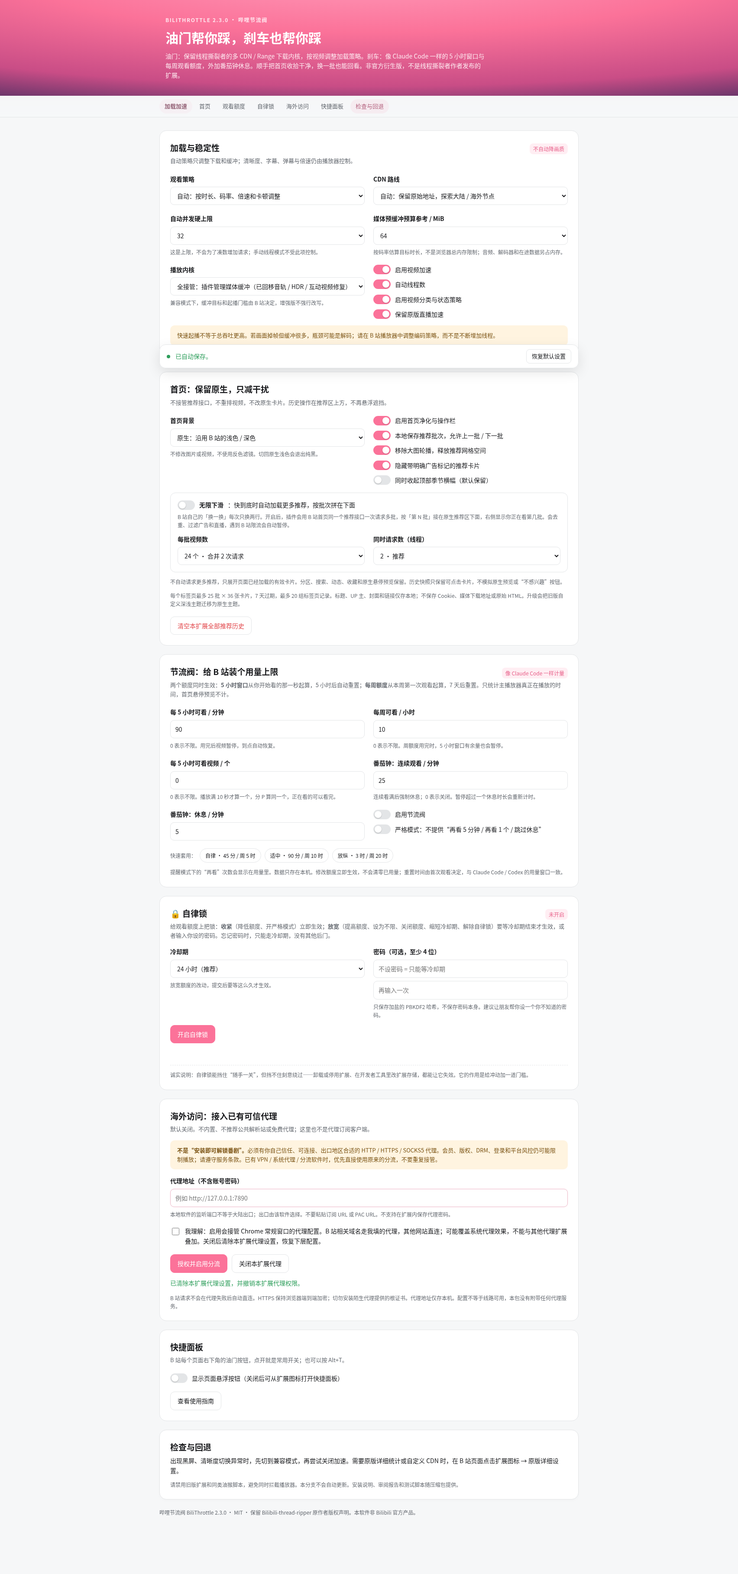
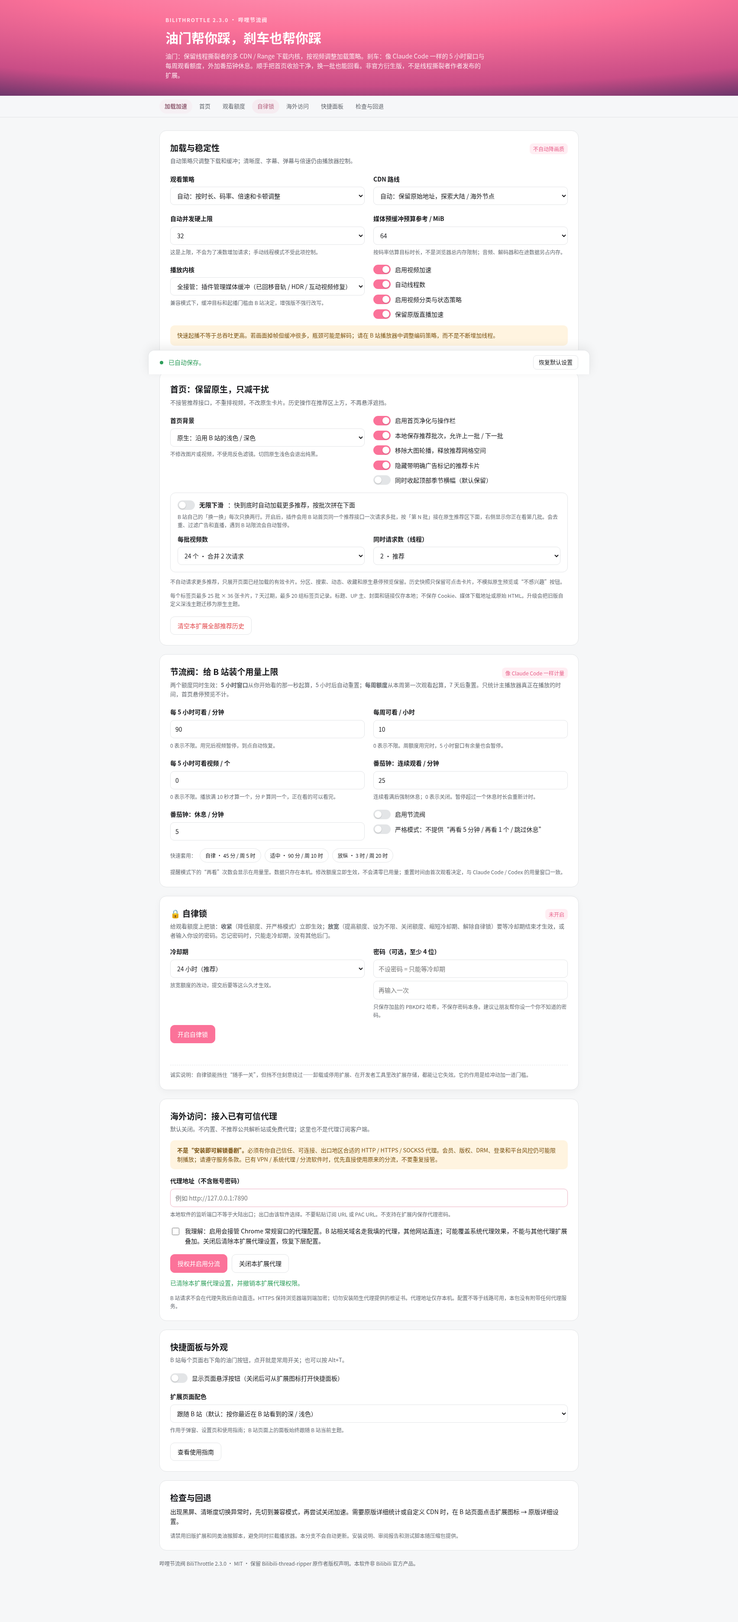
Extension pages follow B 站's theme; options save bar fixed, nav by the 35% line
New setting 扩展页面配色: 跟随 B 站 (default) / 跟随系统 / 浅色 / 深色. Content scripts record the
detected B 站 theme in storage.local (biliTheme); popup/options/welcome apply data-theme live,
cached to avoid a light flash; dark variants tuned. Save bar is position:fixed bottom:0 with
matching body padding. Section nav: top closest above 35% of the viewport, or a section owning
>60% of the screen; click pins the target.

diff --git a/extension/src/ui-kit.js b/extension/src/ui-kit.js
@@ -32,8 +32,8 @@
   const base = `--btr-ease:${EASE};--btr-ease-in:${EASE_IN};--btr-fast:${MOTION.fast}ms;--btr-mid:${MOTION.mid}ms;--btr-slow:${MOTION.slow}ms;--btr-font:${FONT}`;
   /** Token CSS for a shadow root: light on `sel`, dark on `sel.dark`. */
   const scoped = (sel = '.root') => `${sel}{${base};${decl(LIGHT)}}${sel}.dark{${decl(DARK)}}`;
-  /** Token CSS for an extension page: follows the OS theme. */
-  const page = () => `:root{${base};${decl(LIGHT)};color-scheme:light}@media (prefers-color-scheme:dark){:root{${decl(DARK)};color-scheme:dark}}`;
+  /** Token CSS for an extension page: <html data-theme="dark|light"> decides; without it, the OS theme. */
+  const page = () => `:root{${base};${decl(LIGHT)};color-scheme:light}:root[data-theme=dark]{${decl(DARK)};color-scheme:dark}@media (prefers-color-scheme:dark){:root:not([data-theme]){${decl(DARK)};color-scheme:dark}}`;
 
   const reduced = typeof matchMedia === 'function' ? matchMedia('(prefers-reduced-motion: reduce)') : {matches: false};
   const darkOS = typeof matchMedia === 'function' ? matchMedia('(prefers-color-scheme: dark)') : {matches: false, addEventListener() {}};
@@ -118,7 +118,17 @@
     const d = isDark();
     if (d === last) return;
     last = d;
+    record(d);
     for (const f of listeners) { try { f(d); } catch (_) {} }
+  }
+  // Content scripts remember B 站's last theme so the popup / options / welcome pages can match it.
+  let recorded = null;
+  function record(d) {
+    try {
+      if (!/^https?:$/.test(location.protocol) || recorded === d || !root.chrome?.storage?.local) return;
+      recorded = d;
+      chrome.storage.local.get('biliTheme').then(v => { if (v.biliTheme?.dark !== d) return chrome.storage.local.set({biliTheme: {dark: d, at: Date.now()}}); }).catch(() => {});
+    } catch (_) {}
   }
   // Check now, and again once a swapped stylesheet has had time to load / a CSS fade to settle.
   function schedule() {
@@ -148,17 +158,38 @@
   /** Subscribe to Bilibili theme changes. Calls back immediately with the current value. */
   function onTheme(fn) {
     listeners.add(fn); startObserver();
-    if (last == null) last = isDark();
+    if (last == null) { last = isDark(); record(last); }
     fn(last);
     return () => listeners.delete(fn);
   }
 
   const api = Object.freeze({LIGHT, DARK, MOTION, EASE, EASE_IN, FONT, scoped, page, reduced, animate, fadeOut, flash, isDark, onTheme});
   root.__BTR_UI__ = api;
-  // Extension pages get the tokens as :root custom properties before first paint.
+  // Extension pages get the tokens as :root custom properties before first paint, and a theme:
+  // 跟随 B 站 (default: the last theme the content scripts saw on B 站, else the OS) / 跟随系统 / 浅色 / 深色.
   try {
     if (typeof document !== 'undefined' && typeof location !== 'undefined' && !/^https?:$/.test(location.protocol) && document.head) {
       const st = document.createElement('style'); st.id = 'btr-tokens'; st.textContent = page(); document.head.prepend(st);
+      const html = document.documentElement, CACHE = 'btr-ui-theme';
+      const set = mode => {
+        if (mode === 'dark' || mode === 'light') html.dataset.theme = mode; else delete html.dataset.theme;
+        try { localStorage.setItem(CACHE, mode || ''); } catch (_) {}
+      };
+      // Synchronous first guess from the last visit avoids a light flash on a dark setup.
+      try { const c = localStorage.getItem(CACHE); if (c === 'dark' || c === 'light') html.dataset.theme = c; } catch (_) {}
+      const store = root.chrome?.storage;
+      const resolve = async () => {
+        if (!store) return;
+        try {
+          const [{uiTheme = 'bili'}, {biliTheme}] = await Promise.all([store.sync.get({uiTheme: 'bili'}), store.local.get('biliTheme')]);
+          if (uiTheme === 'dark' || uiTheme === 'light') set(uiTheme);
+          else if (uiTheme === 'bili' && typeof biliTheme?.dark === 'boolean') set(biliTheme.dark ? 'dark' : 'light');
+          else set(darkOS.matches ? 'dark' : 'light');
+        } catch (_) {}
+      };
+      resolve();
+      store?.onChanged?.addListener((c, area) => { if ((area === 'sync' && c.uiTheme) || (area === 'local' && c.biliTheme)) resolve(); });
+      darkOS.addEventListener?.('change', resolve);
     }
   } catch (_) {}
   if (typeof module === 'object') module.exports = api;

diff --git a/extension/ui/options.js b/extension/ui/options.js
@@ -1,7 +1,7 @@
 'use strict';
 const $=id=>document.getElementById(id);
 const ui=globalThis.__BTR_UI__,focusCore=globalThis.__BTR_FOCUS_CORE__,homeCore=globalThis.__BTR_HOME_CORE__,lockCore=globalThis.__BTR_LOCK_CORE__;
-const defaults={enabled:true,liveEnabled:true,autoConcurrency:true,smartPolicy:true,strategy:'auto',mode:'auto',maxAutoThreads:32,memoryBudgetMB:64,takeover:'full',...homeCore.defaults,...focusCore.defaults,quickFab:true};
+const defaults={enabled:true,liveEnabled:true,autoConcurrency:true,smartPolicy:true,strategy:'auto',mode:'auto',maxAutoThreads:32,memoryBudgetMB:64,takeover:'full',...homeCore.defaults,...focusCore.defaults,quickFab:true,uiTheme:'bili'};
 const FOCUS=new Set(Object.keys(focusCore.defaults));
 const RELOAD=new Set(['takeover','enabled','liveEnabled']);
 
@@ -220,18 +220,36 @@ async function focusUsage(){try{const r=await chrome.runtime.sendMessage({type:'
 /* ---------- sticky section nav: the section under a reading line just below the nav is current ---------- */
 const links=[...document.querySelectorAll('.toc a')],targets=links.map(a=>document.querySelector(a.getAttribute('href'))).filter(Boolean);
 let navFrame=0,navCurrent=null;
+let navPin=null;
 function navUpdate(){
  navFrame=0;
- const line=($('toc')?.getBoundingClientRect().bottom||0)+Math.min(160,innerHeight*.25);
- let cur=targets[0];
- for(const t of targets){if(t.getBoundingClientRect().top<=line)cur=t;else break;}
+ if(navPin&&performance.now()<navPin.until){setNav(navPin.target);return;}navPin=null;
+ // The section whose top is closest above the 35% line of the viewport (below the sticky nav)…
+ const top=$('toc')?.getBoundingClientRect().bottom||0,bottom=innerHeight-($('savebar')?.offsetHeight||0);
+ const line=Math.max(top+8,innerHeight*.35);
+ let cur=targets[0],best=null,bestArea=0;
+ for(const t of targets){
+  const r=t.getBoundingClientRect();
+  if(r.top<=line)cur=t;
+  const area=Math.max(0,Math.min(r.bottom,bottom)-Math.max(r.top,top));
+  if(area>bestArea){bestArea=area;best=t;}
+ }
+ // …unless another section clearly owns the screen (more than 60% of the visible area).
+ if(best&&best!==cur&&bestArea>.6*(bottom-top))cur=best;
  if(innerHeight+scrollY>=document.documentElement.scrollHeight-4)cur=targets.at(-1); // Bottom of the page: the last section, even if short.
+ setNav(cur);
+}
+function setNav(cur){
  if(cur===navCurrent)return;navCurrent=cur;
  for(const a of links){const on=a.getAttribute('href')==='#'+cur?.id;a.setAttribute('aria-current',String(on));if(on)a.scrollIntoView({block:'nearest',inline:'nearest'});}
 }
 addEventListener('scroll',()=>{if(!navFrame)navFrame=requestAnimationFrame(navUpdate);},{passive:true});
 addEventListener('resize',()=>{if(!navFrame)navFrame=requestAnimationFrame(navUpdate);},{passive:true});
-for(const a of links)a.addEventListener('click',e=>{const t=document.querySelector(a.getAttribute('href'));if(!t)return;e.preventDefault();t.scrollIntoView({behavior:ui.reduced.matches?'auto':'smooth',block:'start'});history.replaceState(null,'',a.getAttribute('href'));});
+addEventListener('scrollend',()=>{navPin=null;});
+['wheel','touchstart','keydown'].forEach(t=>addEventListener(t,()=>{navPin=null;},{passive:true}));
+// The save bar is fixed to the bottom edge; keep the page end clear of it.
+const bar=$('savebar');if(bar&&typeof ResizeObserver==='function')new ResizeObserver(()=>{document.body.style.paddingBottom=bar.offsetHeight+'px';}).observe(bar);
+for(const a of links)a.addEventListener('click',e=>{const t=document.querySelector(a.getAttribute('href'));if(!t)return;e.preventDefault();navPin={target:t,until:performance.now()+1000};setNav(t);t.scrollIntoView({behavior:ui.reduced.matches?'auto':'smooth',block:'start'});history.replaceState(null,'',a.getAttribute('href'));});
 navUpdate();
 
 load().catch(e=>status(e.message,'error'));refreshLock();focusUsage();setInterval(focusUsage,5000);setInterval(()=>{if(lock.locked)refreshLock();},30000);

diff --git a/extension/ui/options.html b/extension/ui/options.html
@@ -45,6 +45,6 @@
 <label class="checkbox-line" style="margin-top:18px"><input id="proxyConsent" type="checkbox"><span>我理解：启用会接管 Chrome 常规窗口的代理配置。B 站相关域名走我填的代理，其他网站直连；可能覆盖系统代理效果，不能与其他代理扩展叠加。关闭后清除本扩展代理设置，恢复下层配置。</span></label>
 <div class="actions"><button id="enableProxy" class="primary" type="button">授权并启用分流</button><button id="disableProxy" type="button">关闭本扩展代理</button></div><p id="proxyStatus" class="status" role="status" aria-live="polite"></p>
 <p class="fine">B 站请求不会在代理失败后自动直连。HTTPS 保持浏览器端到端加密；切勿安装陌生代理提供的根证书。代理地址仅存本机。配置不等于线路可用，本包没有附带任何代理服务。</p></section>
-<section class="card" id="quick"><h2>快捷面板</h2><p class="muted">B 站每个页面右下角的油门按钮，点开就是常用开关；也可以按 Alt+T。</p><div class="stack mt"><label class="row"><span class="switch"><input type="checkbox" role="switch" id="quickFab" form="settings"><span></span></span>显示页面悬浮按钮（关闭后可从扩展图标打开快捷面板）</label></div><div class="actions"><a class="button-link" href="welcome.html" target="_blank">查看使用指南</a></div></section>
+<section class="card" id="quick"><h2>快捷面板与外观</h2><p class="muted">B 站每个页面右下角的油门按钮，点开就是常用开关；也可以按 Alt+T。</p><div class="stack mt"><label class="row"><span class="switch"><input type="checkbox" role="switch" id="quickFab" form="settings"><span></span></span>显示页面悬浮按钮（关闭后可从扩展图标打开快捷面板）</label></div><div class="field mt"><label for="uiTheme">扩展页面配色</label><select id="uiTheme" form="settings"><option value="bili">跟随 B 站（默认：按你最近在 B 站看到的深 / 浅色）</option><option value="system">跟随系统</option><option value="light">浅色</option><option value="dark">深色</option></select><span class="hint">作用于弹窗、设置页和使用指南；B 站页面上的面板始终跟随 B 站当前主题。</span></div><div class="actions"><a class="button-link" href="welcome.html" target="_blank">查看使用指南</a></div></section>
 <section class="card" id="help"><h2>检查与回退</h2><p>出现黑屏、清晰度切换异常时，先切到兼容模式，再尝试关闭加速。需要原版详细统计或自定义 CDN 时，在 B 站页面点击扩展图标 → 原版详细设置。</p><p class="fine">请禁用旧版扩展和同类油猴脚本，避免同时拦截播放器。本分支不会自动更新。安装说明、审阅报告和测试脚本随压缩包提供。</p></section>
 <p class="fine">哔哩节流阀 BiliThrottle 2.3.0 · MIT · 保留 Bilibili-thread-ripper 原作者版权声明。本软件非 Bilibili 官方产品。</p><div class="savebar" id="savebar"><span class="dot" aria-hidden="true"></span><p id="saved" class="status" role="status" aria-live="polite">改动会自动保存。</p><button type="button" id="restore" class="small">恢复默认设置</button></div></main><script src="../src/home-core.js"></script><script src="../src/focus-core.js"></script><script src="../src/proxy-core.js"></script><script src="../src/lock-core.js"></script><script src="options.js"></script></body></html>

diff --git a/extension/ui/common.css b/extension/ui/common.css
@@ -119,7 +119,7 @@ body.popup{width:380px;padding:20px;background:var(--btr-bg)}
 @keyframes btr-fade-in{from{opacity:0;transform:translateY(-2px)}to{opacity:1;transform:none}}
 @media(max-width:640px){.grid{grid-template-columns:1fr}.hero{padding:28px 24px}.wrap{padding:20px 14px}.card{padding:18px}}
 @media (prefers-reduced-motion:reduce){*,*::before,*::after{transition:none!important;animation:none!important}}
-@media (prefers-color-scheme:dark){.hero{background:radial-gradient(120% 160% at 50% -30%,#b4527a 0%,#7e3a63 45%,#2b2140 100%)}.status.dirty{color:#f0b35a}}
+:root[data-theme=dark] .hero{background:radial-gradient(120% 160% at 50% -30%,#a24a72 0%,#6e335a 45%,#221c33 100%)}:root[data-theme=dark] .status.dirty{color:#f0b35a}:root[data-theme=dark] .card:hover{box-shadow:0 6px 22px rgba(0,0,0,.35)}:root[data-theme=dark] .modal-back{background:rgba(0,0,0,.55)}:root[data-theme=dark] .modal{box-shadow:0 24px 60px rgba(0,0,0,.6)}:root[data-theme=dark] .savebar{box-shadow:0 -8px 28px rgba(0,0,0,.45)}@media (prefers-color-scheme:dark){:root:not([data-theme]) .hero{background:radial-gradient(120% 160% at 50% -30%,#a24a72 0%,#6e335a 45%,#221c33 100%)}:root:not([data-theme]) .status.dirty{color:#f0b35a}:root:not([data-theme]) .card:hover{box-shadow:0 6px 22px rgba(0,0,0,.35)}:root:not([data-theme]) .modal-back{background:rgba(0,0,0,.55)}:root:not([data-theme]) .modal{box-shadow:0 24px 60px rgba(0,0,0,.6)}:root:not([data-theme]) .savebar{box-shadow:0 -8px 28px rgba(0,0,0,.45)}}
 
 /* ---------- inline field errors ---------- */
 .field-error{display:flex;align-items:center;gap:6px;margin:0;font-size:12.5px;line-height:1.5;color:var(--btr-danger)}
@@ -141,7 +141,8 @@ button.danger-fill{background:var(--btr-danger);border-color:var(--btr-danger);c
 button.danger-fill:hover{background:color-mix(in srgb,var(--btr-danger) 88%,#000);border-color:transparent}
 
 /* ---------- save bar: pinned to the bottom of the window for the whole page ---------- */
-.wrap>.savebar{position:sticky;bottom:14px;margin:8px 0 0;backdrop-filter:blur(12px) saturate(1.2);-webkit-backdrop-filter:blur(12px) saturate(1.2);background:color-mix(in srgb,var(--btr-bg) 88%,transparent);box-shadow:0 10px 30px rgba(0,0,0,.10),0 1px 0 rgba(255,255,255,.04) inset}
+.wrap>.savebar{position:fixed;left:0;right:0;bottom:0;z-index:20;width:auto;max-width:1020px;margin:0 auto;border-radius:14px 14px 0 0;border-bottom:0;padding:11px 26px calc(11px + env(safe-area-inset-bottom));backdrop-filter:blur(12px) saturate(1.2);-webkit-backdrop-filter:blur(12px) saturate(1.2);background:color-mix(in srgb,var(--btr-bg) 90%,transparent);box-shadow:0 -6px 24px rgba(0,0,0,.08)}
+body:has(.wrap>.savebar){padding-bottom:48px}
 
 /* ---------- small refinements ---------- */
 .card{transition:border-color var(--btr-mid) ease,box-shadow var(--btr-mid) ease}

diff --git a/extension/ui/welcome.css b/extension/ui/welcome.css
@@ -18,7 +18,7 @@ main.w-wrap{padding-top:18px;padding-bottom:40px}
 main section{margin-top:44px}
 main h2{font-size:24px;margin-bottom:16px}
 .w-steps{list-style:none;counter-reset:s;display:grid;grid-template-columns:repeat(3,1fr);gap:14px;padding:0;margin:0}
-.w-steps li{counter-increment:s;position:relative;padding:20px 20px 18px 62px;background:#fff;border-radius:16px;border:1px solid var(--btr-line)}
+.w-steps li{counter-increment:s;position:relative;padding:20px 20px 18px 62px;background:var(--btr-bg);border-radius:16px;border:1px solid var(--btr-line)}
 .w-steps li::before{content:counter(s);position:absolute;left:18px;top:18px;width:30px;height:30px;border-radius:50%;display:grid;place-items:center;background:var(--btr-brand);color:#fff;font-weight:700}
 .w-steps b{display:block;margin-bottom:4px}
 .w-steps span{color:var(--btr-text2);font-size:13px}
@@ -58,5 +58,5 @@ kbd{padding:1px 6px;border-radius:5px;border:1px solid var(--btr-line);backgroun
 .w-footer{padding:20px 28px 40px;color:var(--btr-text2);font-size:12px;text-align:center}
 @keyframes w-float{50%{transform:translateY(-6px)}}
 @media (max-width:760px){.w-steps,.w-setup,.w-features,.w-more{grid-template-columns:1fr}.w-hero h1{font-size:32px}.w-presets{grid-template-columns:1fr 1fr}}
-@media (prefers-color-scheme:dark){.w-hero{background:radial-gradient(120% 140% at 50% -20%,#b4527a 0%,#8a3d68 40%,#4a2c5c 75%,#1d1a2c 100%)}}
+:root[data-theme=dark] .w-hero{background:radial-gradient(120% 140% at 50% -20%,#a24a72 0%,#7a3660 40%,#3e2752 75%,#17151f 100%)}:root[data-theme=dark] .w-btn.primary{background:#fff;color:#c94d86}@media (prefers-color-scheme:dark){:root:not([data-theme]) .w-hero{background:radial-gradient(120% 140% at 50% -20%,#a24a72 0%,#7a3660 40%,#3e2752 75%,#17151f 100%)}:root:not([data-theme]) .w-btn.primary{background:#fff;color:#c94d86}}
 @media (prefers-reduced-motion:reduce){.w-icon{animation:none}}

diff --git a/extension/tests/browser-dom.py b/extension/tests/browser-dom.py
@@ -138,7 +138,8 @@ with sync_playwright() as p:
  option=ctx.new_page();option.on('pageerror',lambda e:errors.append(str(e)));option.on('dialog',lambda d:d.accept())
  markup=(ROOT/'ui/options.html').read_text();markup=re.sub(r'<script[^>]*>.*?</script>','',markup,flags=re.S);markup=re.sub(r'<link[^>]*>','',markup)
  option.set_content(markup);option.add_style_tag(content=(ROOT/'ui/common.css').read_text())
- for f in ['tests/browser-shim.js','src/ui-kit.js','src/home-core.js','src/focus-core.js','src/proxy-core.js','src/lock-core.js']:script(option,f)
+ script(option,'tests/browser-shim.js');option.evaluate("window.chrome=window.chromeMock;0")  # extension page: ui-kit reads chrome.storage for the theme
+ for f in ['src/ui-kit.js','src/home-core.js','src/focus-core.js','src/proxy-core.js','src/lock-core.js']:script(option,f)
  # The service worker owns watch-limit writes (self-discipline lock); mock it as "no lock".
  option.evaluate("chromeMock.runtime.sendMessage=async m=>{if(m.type==='lock-state')return {locked:false};if(m.type==='focus-set'){await chromeMock.storage.sync.set(m.changes);return {applied:m.changes,deferred:{}};}return {};};0")
  option.evaluate("code=>new Function('chrome',code)(window.chromeMock)",(ROOT/'ui/options.js').read_text())
@@ -150,8 +151,22 @@ with sync_playwright() as p:
  option.locator('#focusEnabled').check(force=True);option.locator('#focusWindowMinutes').fill('45');option.locator('#focusWindowMinutes').press('Tab');option.locator('#focusWeeklyHours').fill('6');option.locator('#focusWeeklyHours').press('Tab')
  option.wait_for_function('fixtureStorage.all.sync.focusWindowMinutes===45&&fixtureStorage.all.sync.focusWeeklyHours===6',timeout=3000);assert option.evaluate('fixtureStorage.all.sync.focusEnabled===true')
  ok('options save 5-hour window and weekly limits as numbers (on change, via the service worker)')
- assert option.evaluate("getComputedStyle(document.querySelector('.savebar')).position")=='sticky'
- ok('save bar and section navigation are sticky')
+ assert option.evaluate("getComputedStyle(document.querySelector('.savebar')).position")=='fixed'
+ assert option.evaluate("getComputedStyle(document.querySelector('.toc')).position")=='sticky'
+ ok('save bar is fixed to the window bottom; section navigation is sticky')
+ TH="document.documentElement.dataset.theme||''";TOK="getComputedStyle(document.documentElement).getPropertyValue('--btr-bg').trim()"
+ assert option.evaluate("document.querySelector('#uiTheme').value")=='bili' and option.evaluate(TH)=='light'
+ option.evaluate("chromeMock.storage.local.set({biliTheme:{dark:true,at:Date.now()}})");option.wait_for_function(f"({TH})==='dark'",timeout=2000)
+ assert option.evaluate(TOK)=='#1f2026',option.evaluate(TOK)
+ option.evaluate("chromeMock.storage.local.set({biliTheme:{dark:false,at:Date.now()}})");option.wait_for_function(f"({TH})==='light'",timeout=2000)
+ option.select_option('#uiTheme','dark');option.wait_for_function(f"fixtureStorage.all.sync.uiTheme==='dark'&&({TH})==='dark'",timeout=3000)
+ option.emulate_media(color_scheme='dark');option.select_option('#uiTheme','system');option.wait_for_function(f"({TH})==='dark'",timeout=3000)
+ option.emulate_media(color_scheme='light');option.wait_for_function(f"({TH})==='light'",timeout=3000)
+ option.select_option('#uiTheme','light');option.evaluate("chromeMock.storage.local.set({biliTheme:{dark:true,at:Date.now()}})");option.wait_for_timeout(300);assert option.evaluate(TH)=='light'
+ option.select_option('#uiTheme','bili');option.wait_for_function(f"({TH})==='dark'",timeout=3000)
+ option.wait_for_timeout(500);option.screenshot(path=str(ROOT/'docs/options-dark-preview.png'))
+ option.evaluate("chromeMock.storage.local.set({biliTheme:{dark:false,at:Date.now()}})");option.wait_for_function(f"({TH})==='light'",timeout=2000)
+ ok('extension page theme: 跟随 B 站 (default, live from the recorded B 站 theme) / 跟随系统 / 浅色 / 深色, switching live')
  assert option.evaluate('permissionRequests')==0;option.locator('#enableProxy').click();assert '勾选' in option.locator('#proxyStatus').inner_text()
  option.locator('#proxyConsent').check();option.locator('#proxyUrl').fill('https://user:pass@example.com/');option.locator('#enableProxy').click();assert '账号密码' in option.locator('#proxyStatus').inner_text();assert option.evaluate('permissionRequests')==0
  ok('proxy stays opt-in; consent and credential rejection precede mock permission requests')
@@ -170,15 +185,39 @@ with sync_playwright() as p:
  ok('controls outside the form (快捷面板) auto-save too')
  option.set_viewport_size({'width':1100,'height':700})
  option.evaluate("document.querySelector('#proxy').scrollIntoView({block:'start'})");option.wait_for_timeout(300)
- bar=option.evaluate("(()=>{const r=document.querySelector('#savebar').getBoundingClientRect();return [r.bottom,innerHeight]})()")
- assert abs(bar[1]-14-bar[0])<2,bar
- assert option.evaluate("document.querySelector('.toc a[aria-current=true]').getAttribute('href')")=='#proxy'
- option.evaluate("document.querySelector('#lock').scrollIntoView({block:'start'})");option.wait_for_timeout(300)
- assert option.evaluate("document.querySelector('.toc a[aria-current=true]').getAttribute('href')")=='#lock'
+ BAR="(()=>{const r=document.querySelector('#savebar').getBoundingClientRect();return [r.bottom,innerHeight,r.top]})()"
+ bar=option.evaluate(BAR);assert abs(bar[1]-bar[0])<1,bar
+ CUR="document.querySelector('.toc a[aria-current=true]').getAttribute('href')"
+ assert option.evaluate(CUR)=='#proxy'
  option.evaluate("scrollTo(0,document.documentElement.scrollHeight)");option.wait_for_timeout(300)
- assert option.evaluate("document.querySelector('.toc a[aria-current=true]').getAttribute('href')")=='#help'
+ bar=option.evaluate(BAR);assert abs(bar[1]-bar[0])<1,bar
+ last=option.evaluate("(()=>{const m=document.querySelector('main.wrap');const kids=[...m.children].filter(n=>n.id!=='savebar');return Math.max(...kids.map(n=>n.getBoundingClientRect().bottom))})()")
+ assert last<=bar[2]+1,(last,bar)  # page end (footer) clears the fixed bar
+ assert option.evaluate(CUR)=='#help'
+ ok('save bar is truly fixed at bottom:0 everywhere, and the page end (footer) stays clear of it')
+ # Sections of very different heights: put each section's top just above the 35% line → it is current.
+ ids=option.evaluate("[...document.querySelectorAll('.toc a')].map(a=>a.getAttribute('href').slice(1))")
+ hs=option.evaluate("[...document.querySelectorAll('.toc a')].map(a=>Math.round(document.querySelector(a.getAttribute('href')).getBoundingClientRect().height))")
+ assert max(hs)>2*min(hs),hs
+ checked=0
+ for i,sid in enumerate(ids):
+  option.evaluate(f"(()=>{{const t=document.getElementById('{sid}');scrollTo(0,scrollY+t.getBoundingClientRect().top-innerHeight*.3)}})()");option.wait_for_timeout(120)
+  at_bottom=option.evaluate("innerHeight+scrollY>=document.documentElement.scrollHeight-4")
+  if at_bottom and i<len(ids)-1:continue
+  assert option.evaluate(CUR)=='#'+sid,(sid,option.evaluate(CUR));checked+=1
+  if i>0 and not at_bottom:
+   # top just BELOW the 35% line and not owning the screen → the previous section stays current
+   option.evaluate(f"(()=>{{const t=document.getElementById('{sid}');scrollTo(0,scrollY+t.getBoundingClientRect().top-innerHeight*.4)}})()");option.wait_for_timeout(120)
+   prev_area=option.evaluate(f"(()=>{{const t=document.getElementById('{sid}'),r=t.getBoundingClientRect(),top=document.querySelector('.toc').getBoundingClientRect().bottom,bot=innerHeight-document.querySelector('#savebar').offsetHeight;return (Math.min(r.bottom,bot)-Math.max(r.top,top))/(bot-top)}})()")
+   want='#'+sid if prev_area>.6 else '#'+ids[i-1]
+   assert option.evaluate(CUR)==want,(sid,want,option.evaluate(CUR))
+ assert checked>=len(ids)-2,(checked,len(ids))
+ # A tall section filling the screen wins even if its top is below the 35% line.
+ option.evaluate("(()=>{const t=document.getElementById('lock');scrollTo(0,scrollY+t.getBoundingClientRect().top-innerHeight*.38)})()");option.wait_for_timeout(120)
+ own=option.evaluate("(()=>{const r=document.getElementById('lock').getBoundingClientRect(),top=document.querySelector('.toc').getBoundingClientRect().bottom,bot=innerHeight-document.querySelector('#savebar').offsetHeight;return (Math.min(r.bottom,bot)-Math.max(r.top,top))/(bot-top)})()")
+ assert own>.6,own;assert option.evaluate(CUR)=='#lock',option.evaluate(CUR)
  option.set_viewport_size({'width':1704,'height':864})
- ok('save bar stays pinned to the window bottom on any section; section nav follows the scroll exactly')
+ ok(f'section nav: the section whose top is closest above the 35% line ({checked} sections, heights {min(hs)}–{max(hs)}px), or one owning >60% of the screen')
  option.locator('#proxyConsent').uncheck();option.locator('#proxyUrl').fill('');option.evaluate('scrollTo(0,0)');option.screenshot(path=str(ROOT/'docs/options-preview.png'),full_page=True)
  assert not errors,errors;ok('no uncaught errors across homepage and options regression scenarios')
  (ROOT/'tests/browser-dom-results.json').write_text(json.dumps({'browser':browser.version,'environment':'Local fixture DOM only, mocked Chrome APIs; NOT installed extension or live Bilibili; proxy never enabled','tests':results,'uncaught_errors':errors},ensure_ascii=False,indent=2))

diff --git a/extension/tests/browser-quick.py b/extension/tests/browser-quick.py
@@ -11,7 +11,9 @@ with sync_playwright() as p:
  ctx.route('https://s1.hdslb.com/bfs/seed/jinkela/short/bili-theme/**',lambda r:r.fulfill(status=200,content_type='text/css',body=':root{--bg1:#17181A}body{background:#17181a}' if '/dark' in r.request.url else ':root{--bg1:#FFFFFF}body{background:#fff}'))
  page=ctx.new_page();errors=[];page.on('pageerror',lambda e:errors.append(str(e)))
  page.goto('https://www.bilibili.com/video/BV1xx411c7mD/')
- for f in ['tests/browser-shim.js','src/ui-kit.js','src/home-core.js','src/focus-core.js']:page.add_script_tag(content=(ROOT/f).read_text())
+ page.add_script_tag(content=(ROOT/'tests/browser-shim.js').read_text())
+ page.evaluate("window.chrome=window.chromeMock;0")  # as in the isolated world: ui-kit sees chrome.storage
+ for f in ['src/ui-kit.js','src/home-core.js','src/focus-core.js']:page.add_script_tag(content=(ROOT/f).read_text())
  page.evaluate("chromeMock.runtime.getManifest=()=>({version:'test'});window.sent=[];chromeMock.runtime.sendMessage=async m=>{sent.push(m.type);if(m.type==='focus-check')return {enabled:true,window:{seconds:2700,limit:5400,percent:50,resetAt:Date.now()+3600000,remaining:2700},week:{seconds:7200,limit:36000,percent:20,resetAt:Date.now()+86400000,remaining:28800},videos:3,videoLimit:0,snoozes:0};if(m.type==='lock-state')return window.lockView;if(m.type==='focus-set'){if(window.lockView.locked){const d={};for(const k of Object.keys(m.changes))d[k]=Date.now()+86400000;window.lockView.pending=Object.fromEntries(Object.entries(m.changes).map(([k,v])=>[k,{value:v,requestedAt:Date.now(),effectiveAt:d[k]}]));return {applied:{},deferred:d,lock:window.lockView};}await chromeMock.storage.sync.set(m.changes);return {applied:m.changes,deferred:{}};}if(m.type==='lock-cancel'){delete window.lockView.pending[m.key];return {ok:true};}};window.lockView={locked:false};0")
  page.evaluate("chromeMock.storage.sync.set({focusEnabled:true})")
  page.evaluate("code=>new Function('chrome',code)(window.chromeMock)",(ROOT/'src/quick-panel.js').read_text())
@@ -58,6 +60,28 @@ with sync_playwright() as p:
  page.evaluate("document.getElementById('th').href='https://s1.hdslb.com/bfs/seed/jinkela/short/bili-theme/light.css'");page.wait_for_function(f"!{R}",timeout=2500)
  page.evaluate("document.getElementById('th').remove()")
  ok('video-page-style switch (bili-theme stylesheet href swap) flips the open panel live, both ways')
+ page.evaluate("document.documentElement.classList.add('bili_dark')");page.wait_for_function("fixtureStorage.all.local.biliTheme?.dark===true",timeout=2500)
+ page.evaluate("document.documentElement.classList.remove('bili_dark')");page.wait_for_function("fixtureStorage.all.local.biliTheme?.dark===false",timeout=2500)
+ ok('the detected B 站 theme is recorded in storage.local (biliTheme) for the extension pages to follow')
+ # 完整设置: a just-woken service worker may drop the first request; one real click must still get through.
+ page.evaluate("window.optSent=0;const o2=chromeMock.runtime.sendMessage;chromeMock.runtime.sendMessage=async m=>{if(m.type==='flow-open-options'){optSent++;return optSent===1?undefined:{ok:true};}return o2(m);};0")
+ fb=page.evaluate(f"(()=>{{const r=[...{q}.querySelectorAll('.foot button')].find(b=>b.textContent==='完整设置').getBoundingClientRect();return [r.x+r.width/2,r.y+r.height/2]}})()")
+ page.mouse.click(*fb);page.wait_for_function("optSent===2",timeout=4000);page.wait_for_timeout(200)
+ assert page.evaluate("optSent")==2 and page.evaluate(f"!{q}.querySelector('.toast')||!{q}.querySelector('.toast').textContent.includes('没能打开')")
+ ok('完整设置 works on the first click: waits for the service worker answer and retries once when it is dropped')
+ # A translucent B 站 header popover over the panel: the panel fades out, and back when it closes.
+ page.evaluate("""(()=>{const h=document.createElement('div');h.className='bili-header__bar';h.style.cssText='position:fixed;top:0;left:0;right:0;height:64px;z-index:1002;background:#fff';
+  const a=document.createElement('div');a.id='av';a.style.cssText='position:absolute;right:20px;top:10px;width:40px;height:40px';
+  const pop=document.createElement('div');pop.className='v-popover';pop.style.cssText='position:fixed;right:10px;top:64px;width:360px;height:800px;display:none;background:rgba(255,255,255,.6);backdrop-filter:blur(10px)';
+  h.append(a,pop);document.body.append(h);})();0""")
+ panelOp=f"getComputedStyle({q}.querySelector('.panel')).opacity"
+ page.mouse.move(*fb);page.wait_for_timeout(100)
+ page.hover('#av');page.evaluate("document.querySelector('.v-popover').style.display='block'");page.wait_for_function(f"{q}.querySelector('.panel').classList.contains('veiled')",timeout=2000);page.wait_for_timeout(350)
+ assert float(page.evaluate(panelOp))<.05,page.evaluate(panelOp)
+ page.evaluate("document.querySelector('.v-popover').style.display='none'");page.mouse.move(200,500);page.wait_for_function(f"!{q}.querySelector('.panel').classList.contains('veiled')",timeout=2000);page.wait_for_timeout(350)
+ assert page.evaluate(panelOp)=='1'
+ page.evaluate("document.querySelector('.bili-header__bar').remove()")
+ ok('a B 站 header popover over the panel fades the panel out smoothly, and it comes back when the popover closes')
  assert page.evaluate(f"[...{q}.querySelectorAll('.wide')].some(b=>b.textContent.includes('高级播放设置'))")
  page.evaluate(f"{q}.querySelector('#q-enabled').click()");page.wait_for_timeout(200)
  assert page.evaluate("fixtureStorage.all.sync.enabled")==False
